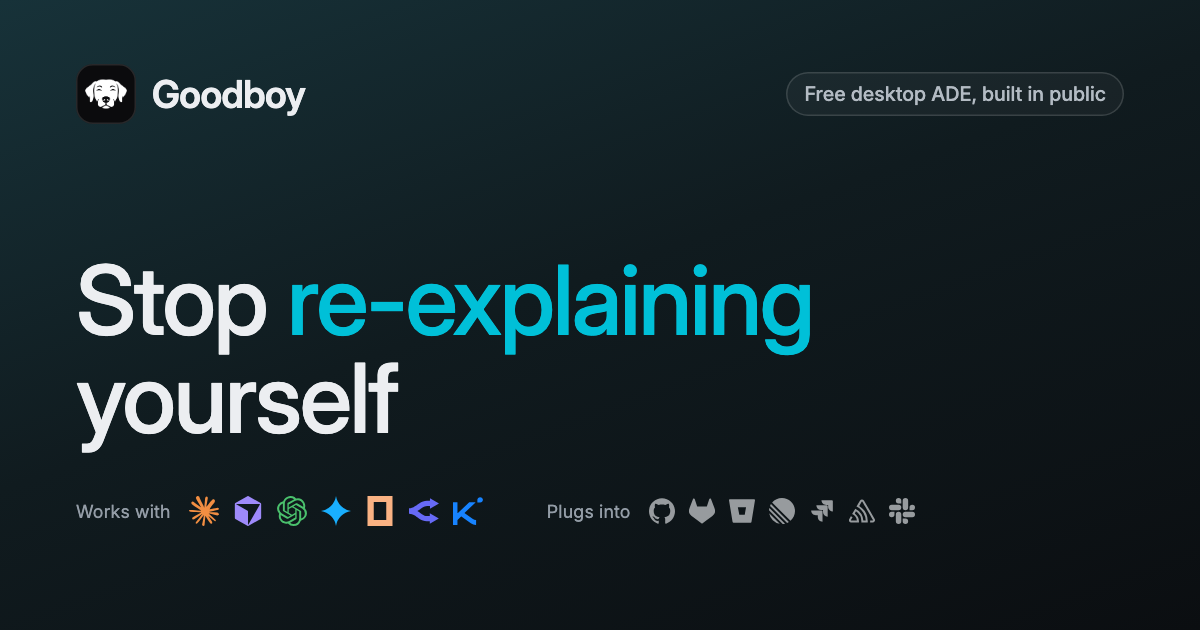
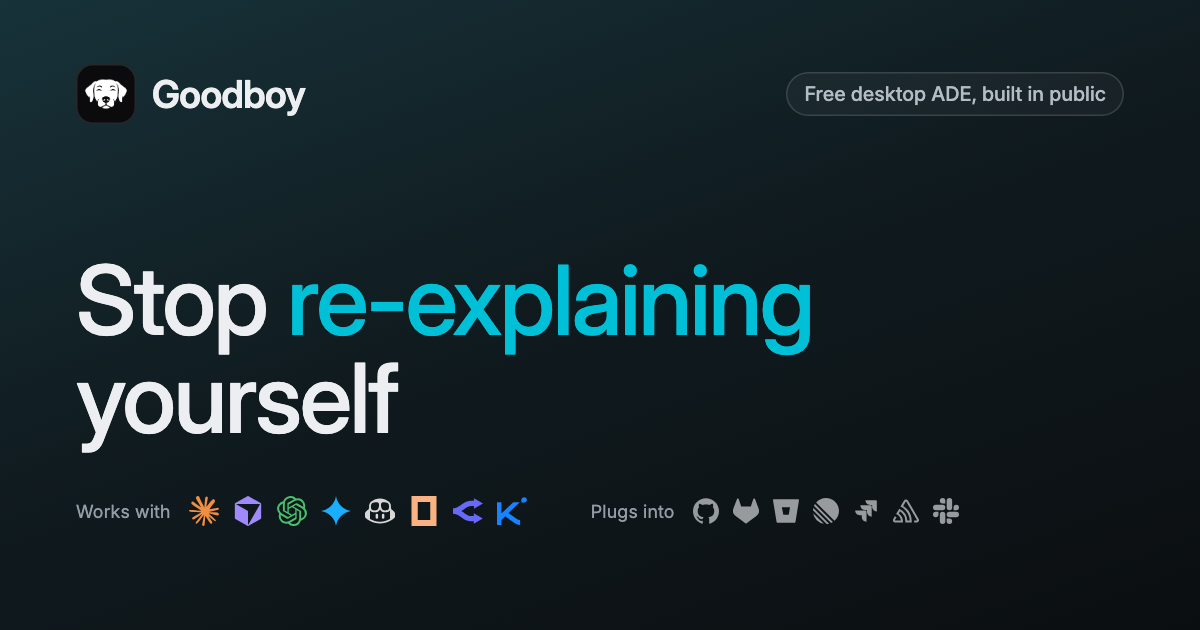
fix(repo): refresh the og image with every provider and bust its cache

Changed region(s): [[0.3083, 0.7841, 0.8017, 0.8444]]

diff --git a/website/src/prerender/pageHead.ts b/website/src/prerender/pageHead.ts
@@ -3,7 +3,7 @@ import { escapeHtml } from './escapeHtml';
 import { jsonLd } from './jsonLd';
 import type { PageMeta } from './PageMeta';
 
-const OG_IMAGE = `${SITE.origin}/og-image.png?v=4`;
+const OG_IMAGE = `${SITE.origin}/og-image.png?v=5`;
 const OG_IMAGE_ALT =
   'Goodboy, a free desktop ADE built in public: Stop re-explaining yourself, with the coding agents and tools it works with';
 const AUTHOR = 'Amin Khayam';
